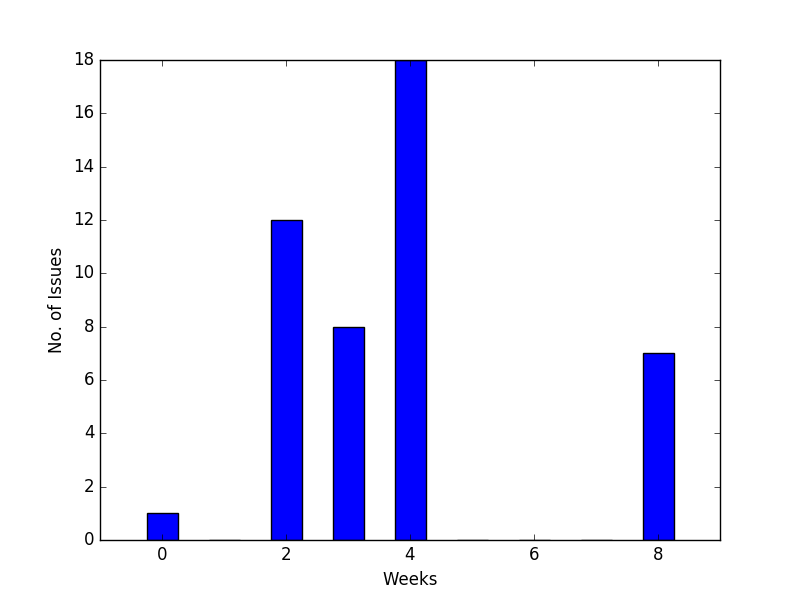
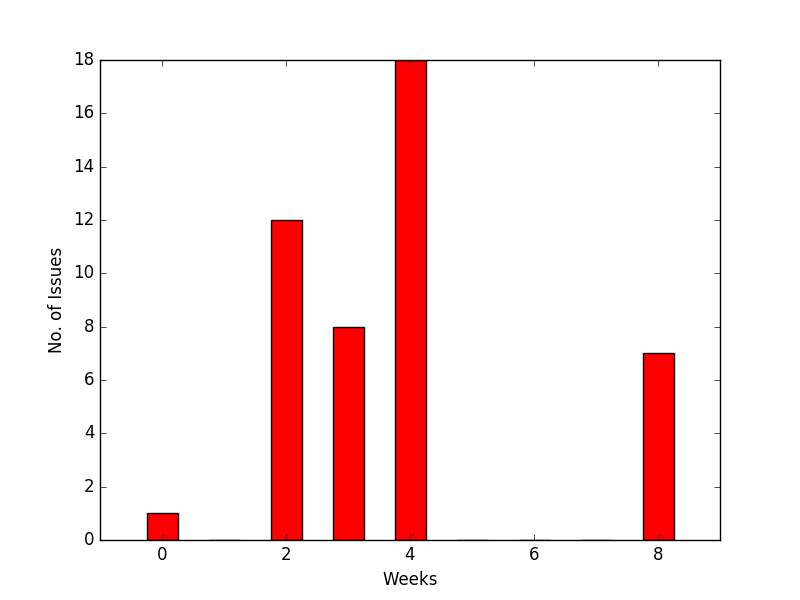
Added graphs for personal issue creation

diff --git a/issues/issue_creator_distribution.py b/issues/issue_creator_distribution.py
@@ -2,8 +2,9 @@ from __future__ import print_function
 import urllib2
 import json
 import re,datetime
-import sys
+import sys, os
 import csv
+import matplotlib.pyplot as plt
  
 class L():
   "Anonymous container"
@@ -26,6 +27,17 @@ def secs(d0):
   delta = d - epoch
   return delta.total_seconds()
 
+def plot_graph(creators,count,file_name):
+  plt.bar(range(len(creators)),count,width=0.50, align='center', color = 'rgbymc')
+  plt.xticks(range(len(creators)), creators)
+  plt.ylabel('Labels')
+  plt.xlabel('Count')
+  locs, creators = plt.xticks()
+  plt.setp(creators, rotation=45)
+  plt.tick_params(axis='both', which='minor', labelsize=6)
+  plt.tick_params(axis='both', which='major', labelsize=6)
+  plt.savefig(os.path.splitext(file_name)[0]+'_issue_creator_distribution'+'.png')
+  plt.clf()
 
 def get_issue_distribution(file_name):
   csvfile = file(file_name,'rb')
@@ -45,7 +57,9 @@ def get_issue_distribution(file_name):
         if creator == mm:
           count += 1
      dis.append(count)
+  print(list(creator_set))
   print(dis)
+  plot_graph(list(creator_set), dis, file_name)
   csvfile.close()
 
 get_issue_distribution('project1.csv')

diff --git a/issues/weekly_issue_distribution.py b/issues/weekly_issue_distribution.py
@@ -29,7 +29,7 @@ def secs(d0):
   return delta.total_seconds()
 
 def plot_graph(week,file_name):
-  plt.bar(range(len(week)),week,width=0.50, align='center')
+  plt.bar(range(len(week)),week,width=0.50, align='center', color = 'r')
   plt.ylabel('No. of Issues')
   plt.xlabel('Weeks')
   plt.savefig(os.path.splitext(file_name)[0]+'_weekly_issue_distribution'+'.png')
